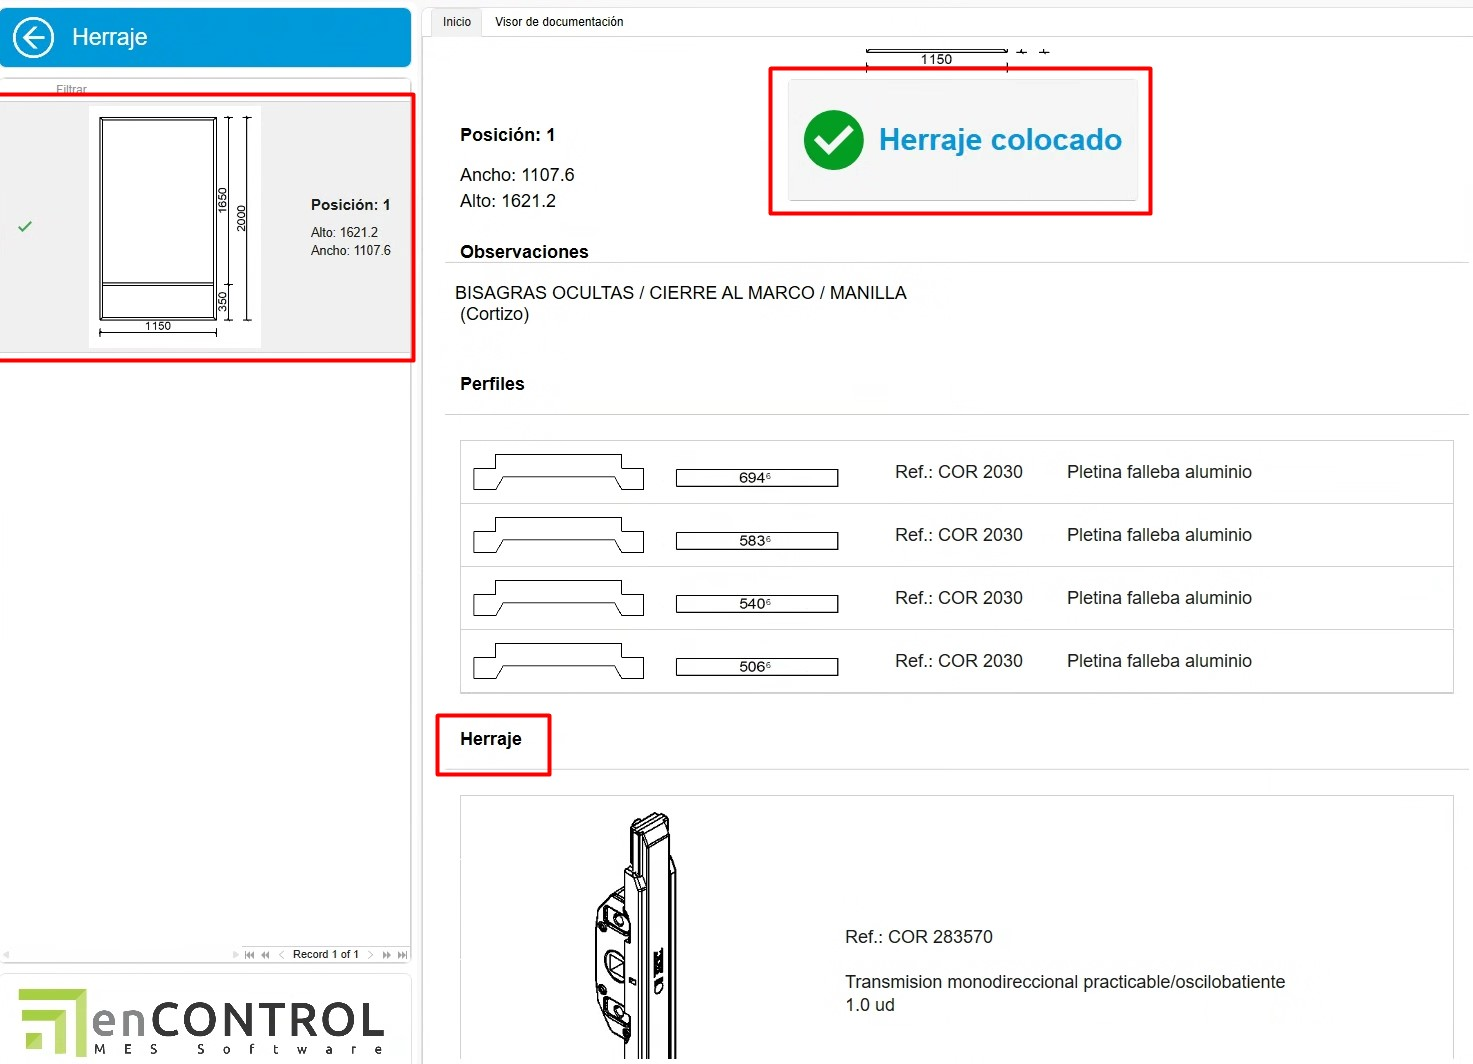
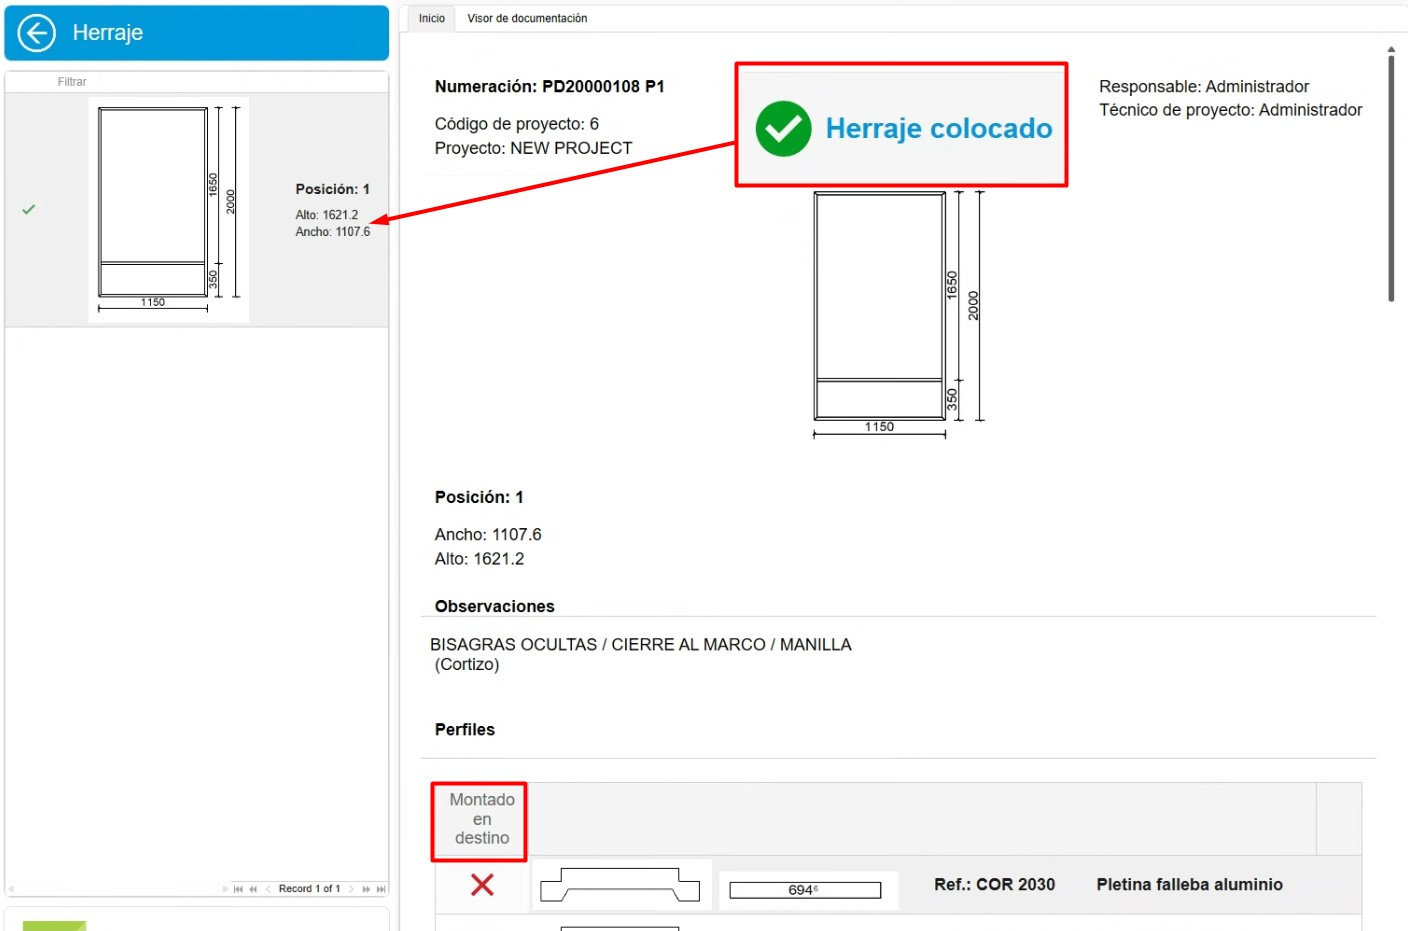
Add nuevos puestos en Manual stock enCONTROL

diff --git a/docs/Procesos/4.PR_Manual_Stock_enCONTROL.md b/docs/Procesos/4.PR_Manual_Stock_enCONTROL.md
@@ -79,7 +79,7 @@ El presente manual está diseñado para usuarios nuevos en el sistema de control
     ![stock_necesario](Imagenes/PR_Stock_Control/stock_necesario.jpg)
     ![stock_necesario](Imagenes/PR_Stock_Control/stock_necesario2.jpg)
 
-> **Nota:** Para información más detalladas sobre crear fase de produccion en ENBLAU, sigue este enlace: [3.5. Producción](1.PR_Ventas_Compras.md#35-produccion)
+> **Nota:** Para información más detallada sobre crear fase de producción en ENBLAU, sigue este enlace: [3.5. Producción](1.PR_Ventas_Compras.md#35-produccion)
 
 ### 6.2. enCONTROL
 
@@ -105,7 +105,7 @@ El presente manual está diseñado para usuarios nuevos en el sistema de control
 
   ![planificacion_produccion](Imagenes/PR_Stock_Control/planificacion_produccion.jpg)
 
-  Para quitar el proyecto asignado, hay que selecionar el responsable selecionar el proyecto y usar ctrl + suprimir.
+  Para quitar el proyecto asignado, hay que seleccionar el responsable seleccionar el proyecto y usar ctrl + suprimir.
 
 - En la pestaña Calendario de producción se muestra un diagrama Gantt con base en los tiempos de Logikal (en el ejemplo) fechas de entrada y salida de producción.
 
@@ -115,35 +115,35 @@ El presente manual está diseñado para usuarios nuevos en el sistema de control
 
   ![seleccion_puesto](Imagenes/PR_Stock_Control/seleccion_puesto.jpg)
 
-- Al entrar en cualquier puesto te abrira la pantalla con el boton **Iniciar**:
+- Al entrar en cualquier puesto te abrirá la pantalla con el botón **Iniciar**:
 
   ![iniciar](Imagenes/PR_Stock_Control/iniciar.jpg)
 
   Al iniciar se cuenta el tiempo hasta que se pause o se finalice el trabajo.
 
-- Todas las pantallas tienen algunos campos en comun:
+- Todas las pantallas tienen algunos campos en común:
     - Comentario - Se puede añadir comentario y escoger una severidad en el desplegable. El último comentario bueno es el que desbloquea.
 
-        ![comentario](Imagenes/PR_Stock_Control/comentario.jpg)
+      ![comentario](Imagenes/PR_Stock_Control/comentario.jpg)
 
-        ![comentario](Imagenes/PR_Stock_Control/comentario2.jpg)
+      ![comentario](Imagenes/PR_Stock_Control/comentario2.jpg)
 
-    - Pausar - Al pausar el trabajo te obliga indicar desde el listado el motivo de la pausa. Luego se puede reanudar inicando otra vez el mismo puesto.
+    - Pausar - Al pausar el trabajo te obliga indicar desde el listado el motivo de la pausa. Luego se puede reanudar indicando otra vez el mismo puesto.
 
-        ![pausar](Imagenes/PR_Stock_Control/pausar.jpg)
+      ![pausar](Imagenes/PR_Stock_Control/pausar.jpg)
 
     - Finalizar - Se finaliza cuando acabas el trabajo en ese puesto. Luego se puede reanudar inicando otra vez el mismo puesto.
 
-        ![finalizar](Imagenes/PR_Stock_Control/finalizar.jpg)
+      ![finalizar](Imagenes/PR_Stock_Control/finalizar.jpg)
 
     - Documentación - Desde el apartado de documentación se podrá ver los documentos de producción exportados desde Logikal en el visor de documentación. También se puede añadir una ruta genérica para añadir lo que quiera. Catálogo, manuales, etc.
 
-        ![documentacion](Imagenes/PR_Stock_Control/documentacion.jpg)
+      ![documentacion](Imagenes/PR_Stock_Control/documentacion.jpg)
 
 #### 6.2.1 Puestos de trabajo
 
 - **Preparación de Material**
-    - Todo preparado – Marca los materiales con un check en verde indicando que está preparado.
+  - Todo preparado – Marca los materiales con un check en verde indicando que está preparado.
 	- Nada Preparado – Marca los materiales con una X en rojo indicando que no está preparado.
 	- Ubicación Material – Según lo tengas configurado enCONTROL, se podría indicar donde ubicar los materiales. Para que se descuente ese material solo de esa ubicación. 
 
@@ -168,27 +168,49 @@ El presente manual está diseñado para usuarios nuevos en el sistema de control
 - **Mecanizado**
 	- No se descuenta materiales, simplemente es informativo por tiempo. Contrasta tiempo real.
 
-      ![mecanizado](Imagenes/PR_Stock_Control/mecanizado.jpg)
+    ![mecanizado](Imagenes/PR_Stock_Control/mecanizado.jpg)
 
 - **Montaje**
     - Se descuenta materiales (accesorios) por cada posición de cuadro.
 
-      ![montaje](Imagenes/PR_Stock_Control/montaje.jpg)
+    ![montaje](Imagenes/PR_Stock_Control/montaje.jpg)
+
+    - En el listado de materiales tienes la opción de indicar los artículos que se va a montar en destino. Esos materiales luego se añadirá en el listado del puesto de **Picking**.
+
+    ![montaje](Imagenes/PR_Stock_Control/montaje_2.jpg)
 
 - **Ajunquillado**
     - Se descuenta materiales (Juntas, calzos, espuma, etc..) por cuadro.
 
-      ![ajunquillado](Imagenes/PR_Stock_Control/ajunquillado.jpg)
+    ![ajunquillado](Imagenes/PR_Stock_Control/ajunquillado.jpg)
+
+    - En el listado de materiales tienes la opción de indicar los artículos que se va a montar en destino. Esos materiales luego se añadirá en el listado del puesto de **Picking**.
+
+      ![ajunquillado](Imagenes/PR_Stock_Control/ajunquillado_2.jpg)
 
 - **Ensamblado**
     - Información del cuadro, pero no se descuenta materiales.
 
-      ![ensamblado](Imagenes/PR_Stock_Control/ensamblado.jpg)
+    ![ensamblado](Imagenes/PR_Stock_Control/ensamblado.jpg)
 
 - **Herraje**
     - Se descuenta materiales (herraje) por hoja.
 
-      ![herraje](Imagenes/PR_Stock_Control/mecanizado.jpg)
+      ![herraje](Imagenes/PR_Stock_Control/herraje.jpg)
+
+    - En el listado de materiales tienes la opción de indicar los herrajes que se va a montar en destino. Esos materiales luego se añadirá en el listado del puesto de **Picking**.
+
+      ![herraje](Imagenes/PR_Stock_Control/herraje_2.jpg)
+
+- **Soldado**
+  - No se descuenta materiales, simplemente es informativo por tiempo. Contrasta tiempo real.
+
+    ![soldado](Imagenes/PR_Stock_Control/soldado.jpg)
+
+- **Transformación**
+  - Ese puesto puedes indicar un grupo de materiales o escandallo para transformar en un producto, ejemplo. Barandilla. 
+
+    ![transformacion](Imagenes/PR_Stock_Control/transformacion.jpg)
 
 - **Comprobación final**
     - No se descuenta materiales. Pero, una vez finalice la comprobación se puede ubicar en Almacen y luego imprimir una etiqueta del producto acabado.
@@ -201,13 +223,31 @@ El presente manual está diseñado para usuarios nuevos en el sistema de control
 
     - Desde ENBLAU en el apartado de Almacenes en el apartado de **Producto terminado** hay dos listados:
 
-        **Ubicación de productos:** Muestra donde esta ubicado el producto terminado de cada proyecto y producción. Desde ese listado se puede dar salida, mover de ubicación y abrir el documento de producción, selecionando sobre la posición con el botón derecho.
+        **Ubicación de productos:** Muestra donde está ubicado el producto terminado de cada proyecto y producción. Desde ese listado se puede dar salida, mover de ubicación y abrir el documento de producción, seleccionando sobre la posición con el botón derecho.
 
         ![ubicacion producto](Imagenes/PR_Stock_Control/ubicacion_producto.jpg)
 
-        **Movimientos de productos:** Muestra los movimientos del producto terminado como entrada, traspaso, salida y devolución. Desde ese listado se puede hacer una devolución, selecionando sobre la posición de salida con el botón derecho.
+        **Movimientos de productos:** Muestra los movimientos del producto terminado como entrada, traspaso, salida y devolución. Desde ese listado se puede hacer una devolución, seleccionando sobre la posición de salida con el botón derecho.
 
         ![movimientos producto](Imagenes/PR_Stock_Control/movimientos_producto.jpg)
+
+- **Limpieza**
+	- No se descuenta materiales, simplemente es informativo por tiempo. Contrasta tiempo real.
+
+    ![limpieza](Imagenes/PR_Stock_Control/limpieza.jpg)
+
+- **Picking**
+  - El puesto muestra el listado de los materiales marcados previamente en otros puestos que se montará en destino.
+
+    ![picking](Imagenes/PR_Stock_Control/picking.jpg)
+  
+  - Puedes crear los paquetes y asignar para cada material. Y luego imprimir la etiqueta para el paquete.
+
+    ![picking](Imagenes/PR_Stock_Control/picking_paquete.jpg)
+
+  - Indicar la ubicación de picking para cada material.
+
+    ![picking](Imagenes/PR_Stock_Control/picking_ubicacion.jpg)
 
 - **Pizarra**
     - Muestra la evolución de cada proyecto y su estado.
@@ -215,7 +255,7 @@ El presente manual está diseñado para usuarios nuevos en el sistema de control
       ![pizarra](Imagenes/PR_Stock_Control/pizarra.jpg)
 
 - **Control**
-    - Abre el monitor Control de proyectos. Donde tambien se puede ver el estado de cada proyecto que esta en fabrica.
+    - Abre el monitor Control de proyectos. Donde también se puede ver el estado de cada proyecto que está en fábrica.
 
       ![control estados](Imagenes/PR_Stock_Control/control_estados.jpg)
 
@@ -225,7 +265,7 @@ El presente manual está diseñado para usuarios nuevos en el sistema de control
 > **Configuración enCONTROL** - Configurar enCONTROL previamente. Para más información, sigue este enlace: [2. Configuración Inicial de enCONTROL](/Configuraciones/2.%20CO_Configuracion_Inicial_enCONTROL/) :
 
 
-> **Gestion de filtros** - Usar filtros y filtros personalizados para optimizar la búsqueda en los listados. Para más información, sigue este enlace: [4. Gestión de filtros](/Utilidades/4.UT_Gestion_Filtros/)
+> **Gestión de filtros** - Usar filtros y filtros personalizados para optimizar la búsqueda en los listados. Para más información, sigue este enlace: [4. Gestión de filtros](/Utilidades/4.UT_Gestion_Filtros/)
 
 ---
 

diff --git a/docs/Procesos/3.PR_Manual_Stock_ENBLAU.md b/docs/Procesos/3.PR_Manual_Stock_ENBLAU.md
@@ -242,7 +242,7 @@ Desde esta sección puedes definir, para cada artículo, una serie de valores po
 
 ## 6. Producto terminado
 
-El **producto terminado** es aquel que ha sido completamente fabricado y ha pasado por el puesto correspondiente de **Producto terminado** en **enCONTROL**.
+El **producto terminado** es aquel que ha sido completamente fabricado y ha pasado por el puesto correspondiente de **Comprobación final** en **enCONTROL**.
 
 En el apartado **Almacenes → Producto terminado** se encuentran dos listados principales:
 
@@ -255,7 +255,7 @@ En el apartado **Almacenes → Producto terminado** se encuentran dos listados p
 
 ## 6.1. Ubicación de productos
 
-- En el listado de **Ubicación de productos** se muestra la información y la localización actual del producto terminado, tal como se haya definido desde el puesto de **Producto terminado** en **enCONTROL**.
+- En el listado de **Ubicación de productos** se muestra la información y la localización actual del producto terminado, tal como se haya definido desde el puesto de **Comprobación final** en **enCONTROL**.
 
   ![Material importado](Imagenes/PR_Stock_Control/producto_terminado2.jpg)
 
